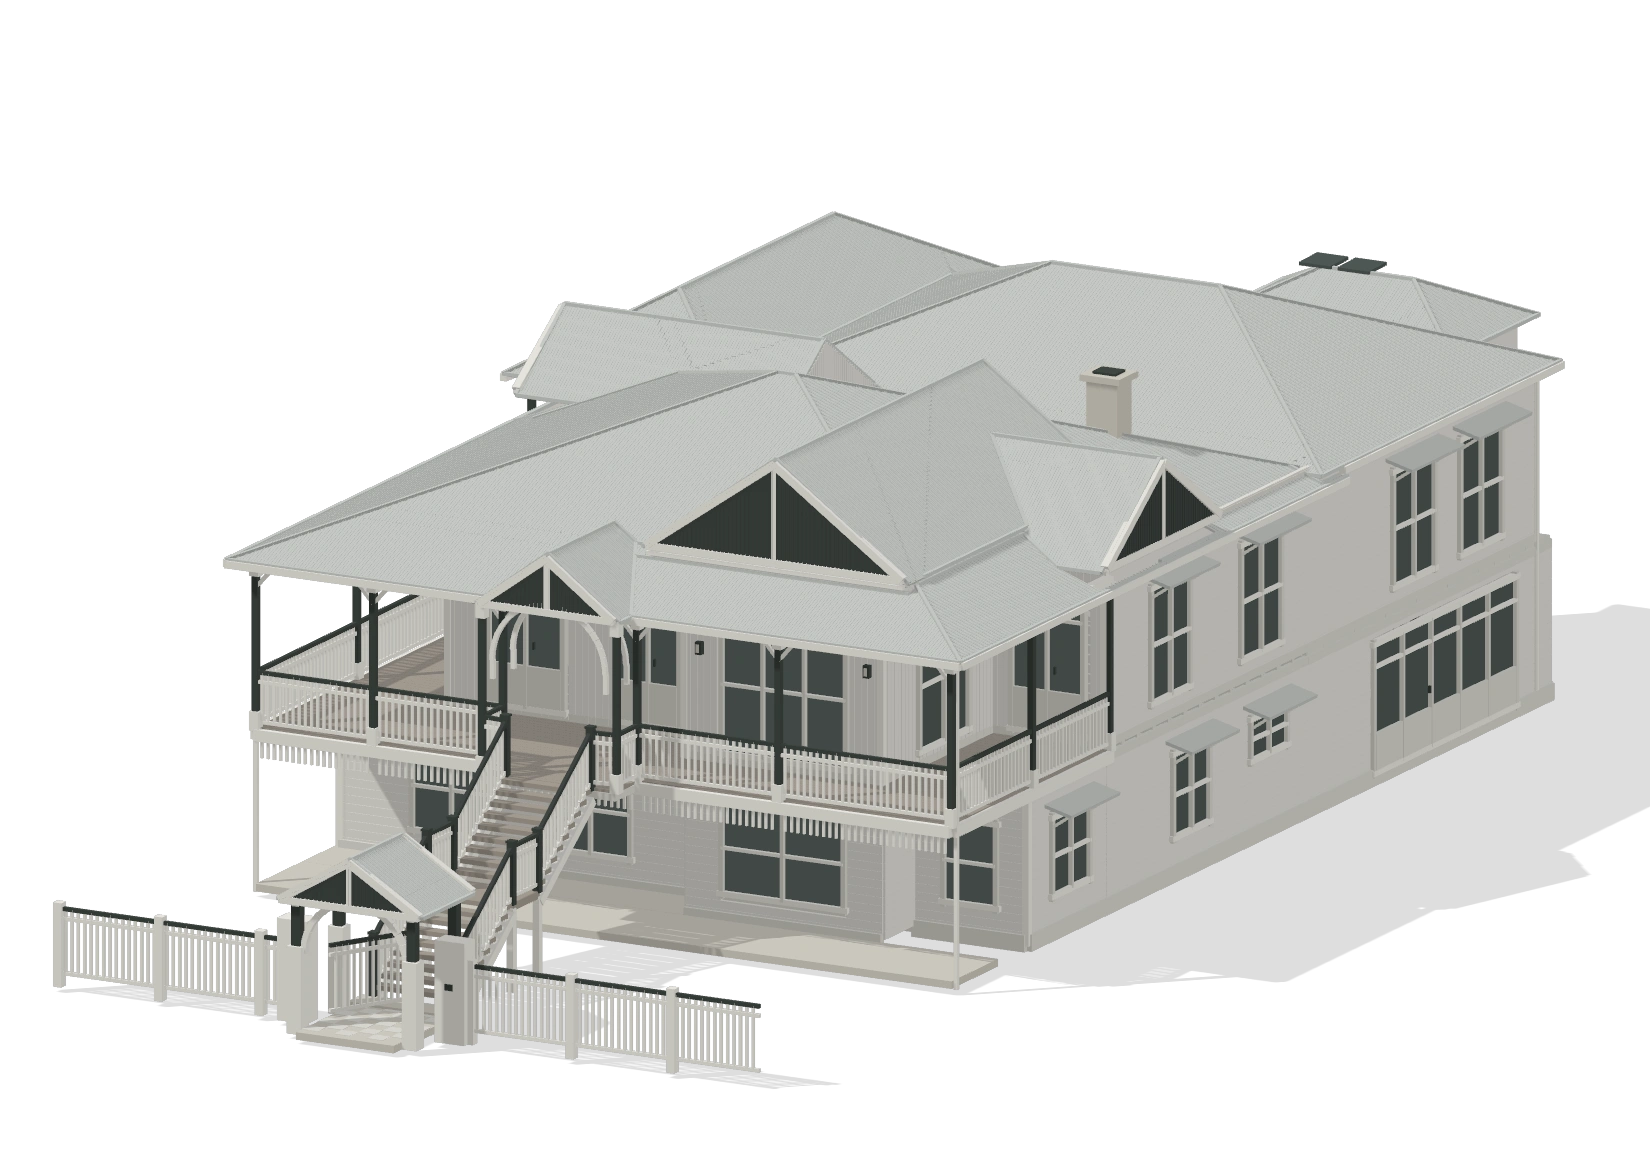
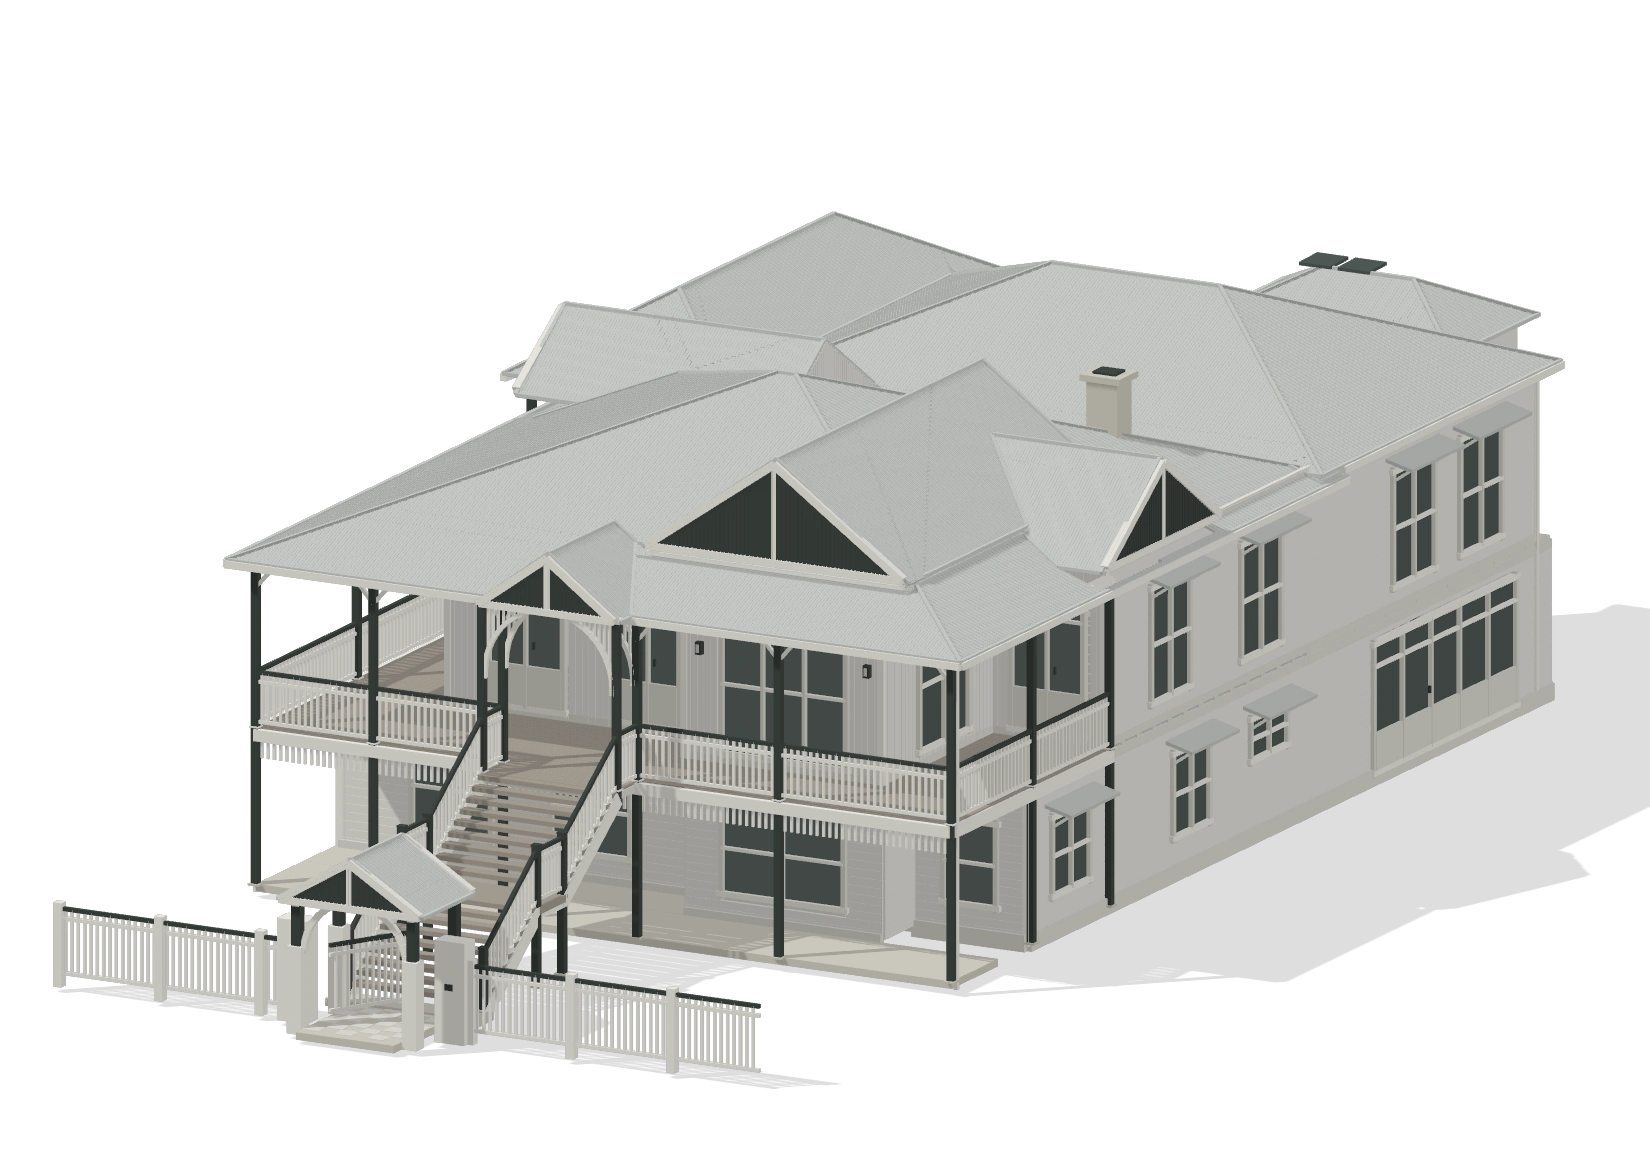
Rebuild Croyde stair joins and continuous verandah supports

diff --git a/src/three/frameMembers.ts b/src/three/frameMembers.ts
@@ -126,10 +126,17 @@ deck(-7.25,-4.9,-3.9,6.9)
 deck(-9,-7.82,-13.9,-3.9);deck(-7.82,-4.9,-13.9,-12.08);deck(-7.82,-4.9,-8.88,-3.9)
 deck(-2.1,0.7,10,10.85)
 slab(-7.25,7.25,8.2,10,0.1);slab(-7.25,0.7,6.9,8.2,0.1);slab(-9,-0.65,-13.9,-3.9,0.1)
-function post(x:number,z:number,top=6.35,bottom=UP) {
-  box([x,(bottom+top)/2,z],[0.12,top-bottom,0.12],'accent',0.33,1)
-  box([x,bottom+0.18,z],[0.19,0.36,0.19],'trim',0.88,3)
-  box([x,top-0.17,z],[0.19,0.29,0.19],'trim',0.88,3)
+function post(x:number,z:number,top=6.35,bottom=UP-0.12) {
+  // The charcoal shaft reaches the deck and beam. Tall white collars used to
+  // hide both ends, making the posts look detached from the balustrade.
+  box([x,(bottom+top)/2,z],[0.14,top-bottom,0.14],'accent',0.33,1)
+  box([x,UP+0.065,z],[0.19,0.025,0.19],'trim',0.88,3,{lines:false})
+  box([x,top-0.025,z],[0.18,0.09,0.18],'trim',0.88,3)
+}
+function verandahSupport(x:number,z:number) {
+  const bottom=0.17,top=UP-0.07
+  box([x,(bottom+top)/2,z],[0.14,top-bottom,0.14],'accent',0.22,1)
+  box([x,bottom,z],[0.22,0.035,0.22],'ground',0.85,3,{lines:false})
 }
 function bracket(x:number,z:number,axis:'x'|'z',dir:number,top=6.34) {
   beam([x,top-0.53,z],axis==='x'?[x+dir*0.42,top-0.06,z]:[x,top-0.06,z+dir*0.42],0.065,'trim',0.91)
@@ -141,20 +148,22 @@ function rail(a:V2,b:V2,base=UP+0.08,height=1.02,frieze=false) {
   for(const y of frieze?[high]:[low,high-0.18])beam([a[0],y,a[1]],[b[0],y,b[1]],0.065,'trim',0.89)
   if(!frieze)beam([a[0],base+height,a[1]],[b[0],base+height,b[1]],0.075,'accent',0.9)
 }
-function newel(x:number,z:number,floor:number) {
-  box([x,floor+NEWEL_HEIGHT/2,z],[0.14,NEWEL_HEIGHT,0.14],'accent',0.91,3)
-  box([x,floor+NEWEL_HEIGHT,z],[0.17,0.045,0.17],'accent',0.92,3)
+function newel(x:number,z:number,floor:number,bottom=floor-0.25) {
+  const top=floor+NEWEL_HEIGHT
+  // A landing post is also its support, not a dark stub on a separate white leg.
+  box([x,(bottom+top)/2,z],[0.14,top-bottom,0.14],'accent',0.87,3)
+  box([x,top,z],[0.16,0.035,0.16],'accent',0.92,3,{lines:false})
 }
 function landingRail(a:V2,b:V2,floor:number) { rail(a,b,floor+0.08,HANDRAIL-0.08) }
 const frontPosts=[-7.25,-4.8,-2.1,0.7,3.65,7.25]
-frontPosts.forEach(x=>{post(x,10);for(const d of [-1,1])if(Math.abs(x+d*0.5)<7.3)bracket(x,10,'x',d)})
+frontPosts.forEach(x=>{post(x,10);verandahSupport(x,10);for(const d of [-1,1])if(Math.abs(x+d*0.5)<7.3)bracket(x,10,'x',d)})
 for(let i=0;i<frontPosts.length-1;i++) {
   // Rails meet the post centreline, rather than stopping short of its face.
   const a=frontPosts[i],b=frontPosts[i+1]
   if(i!==2)rail([a,10],[b,10]) // Real opening at the stair entrance.
   rail([a,10],[b,10],UP-0.52,0.36,true)
 }
-for(const z of [3.9,6.9])post(7.25,z)
+for(const z of [3.9,6.9]){post(7.25,z);verandahSupport(7.25,z)}
 rail([7.25,3.9],[7.25,6.9]);rail([7.25,6.9],[7.25,10])
 const gardenPosts=[-3.9,-0.7,2.5,6.1,10]
 gardenPosts.slice(0,-1).forEach(z=>{post(-7.25,z);bracket(-7.25,z,'z',1);bracket(-7.25,z,'z',-1)})
@@ -170,31 +179,39 @@ for(const [a,b] of [[[-7.25,10],[7.25,10]],[[-7.25,10],[-7.25,-3.9]],[[7.25,10],
   for(const y of [UP-0.08,6.35])beam([a[0],y,a[1]],[b[0],y,b[1]],y<4?0.22:0.18,'trim',0.86)
 }
 // Stair handrails follow each flight, with an actual intermediate landing.
-function stair(x:number,z1:number,z2:number,y1:number,y2:number,width:number,n:number) {
+function stair(x:number,z1:number,z2:number,y1:number,y2:number,width:number,n:number,posts:{start?:boolean;startBottom?:number;endBottom?:number}={}) {
   const dz=(z2-z1)/n,dy=(y2-y1)/n
   for(let i=0;i<n;i++)box([x,y1+dy*i,z1+dz*(i+0.5)],[width,0.09,Math.abs(dz)+0.018],'deck',0.86,3)
   for(const side of [-1,1]) {
     const xx=x+side*(width/2-0.04)
-    beam([xx,y1-0.18,z1],[xx,y2-0.18,z2],0.18,'trim',0.85)
+    // Deep side stringers carry the open treads. A square stick below the
+    // flight left the tread ends and post feet visibly unsupported.
+    const slope=-Math.atan2(y2-y1,Math.abs(z2-z1))
+    box([xx,(y1+y2)/2-0.1,(z1+z2)/2],[0.14,0.3,Math.hypot(z2-z1,y2-y1)],'trim',0.85,3,
+      {rx:slope,ry:z2<z1?Math.PI:0})
     beam([xx,y1+HANDRAIL,z1],[xx,y2+HANDRAIL,z2],0.075,'accent',0.91)
     beam([xx,y1+LOWER_RAIL,z1],[xx,y2+LOWER_RAIL,z2],0.075,'trim',0.91)
     const count=Math.ceil(Math.abs(z2-z1)/0.14)
     for(let j=1;j<count;j++)box([xx,y1+(y2-y1)*j/count+(LOWER_RAIL+HANDRAIL)/2,z1+(z2-z1)*j/count],[0.045,HANDRAIL-LOWER_RAIL,0.045],'trim',0.91,3)
-    for(const [z,y] of [[z1,y1],[z2,y2]])newel(xx,z,y)
+    if(posts.start!==false)newel(xx,z1,y1,posts.startBottom)
+    newel(xx,z2,y2,posts.endBottom)
   }
 }
 const ENTRY=-0.7
-stair(ENTRY,10.85,12.9,UP,1.65,1.85,9)
-slab(ENTRY-0.93,ENTRY+0.93,12.9,13.9,1.61,'deck',0.86)
+// Use the entrance column lines for both flights. The previous narrower
+// stair created four short dog-leg rails and extra posts beside the entrance.
+const ENTRY_STAIR_WIDTH=2.88
+stair(ENTRY,10.8,12.9,UP,1.65,ENTRY_STAIR_WIDTH,9,{start:false,endBottom:0.17})
+slab(ENTRY-1.48,ENTRY+1.48,12.9,13.9,1.61,'deck',0.86)
 for(const side of [-1,1]) {
-  const x=ENTRY+side*(1.85/2-0.04),porticoX=ENTRY+side*1.4
-  landingRail([porticoX,10],[porticoX,10.8],UP)
-  landingRail([porticoX,10.8],[x,10.85],UP)
+  const x=ENTRY+side*1.4
+  landingRail([x,10],[x,10.8],UP)
   landingRail([x,12.9],[x,13.9],1.65)
-  for(const z of [12.9,13.9])box([x,0.79,z],[0.13,1.58,0.13],'trim',0.84,3)
+  box([x,1.56,13.4],[0.14,0.23,1.14],'trim',0.86,3)
+  for(const z of [12.9,13.9])box([x,0.17,z],[0.22,0.035,0.22],'ground',0.88,3,{lines:false})
 }
-stair(ENTRY,13.9,15.95,1.65,0.18,1.85,9)
-slab(ENTRY-1.13,ENTRY+1.13,15.93,16.5,0.1,'ground',0.9)
+stair(ENTRY,13.9,15.95,1.65,0.18,ENTRY_STAIR_WIDTH,9,{startBottom:0.17,endBottom:0.1})
+slab(ENTRY-1.6,ENTRY+1.6,15.93,16.5,0.1,'ground',0.9)
 stair(-5.65,-12,-9.9,UP,1.6,1.35,9);slab(-7.74,-4.94,-9.9,-8.95,1.55,'deck',0.86)
 stair(-7.05,-9.9,-12,1.6,0.18,1.35,9)
 // Continuous guard around the rear landing and upstairs stairwell. The two
@@ -340,12 +357,18 @@ for(const z of [10,10.8]) {
   // The rear pair already belongs to frontPosts. Duplicating it 5 cm forward
   // made the entry posts overlap and flicker against their white capitals.
   if(z===10.8)for(const x of [-2.1,0.7])post(x,z,6.4)
-  const r=1.18,cy=5.32
+  // Spring the arch from the inner faces of the columns. The former narrow
+  // horseshoe hung clear of both posts with no timber tying it to the beam.
+  const r=1.33,cy=5.05,head=6.35
   for(let i=0;i<22;i++) {
     const a=i*Math.PI/22,b=(i+1)*Math.PI/22
     beam([ENTRY+r*Math.cos(a),cy+r*Math.sin(a),z+0.025],[ENTRY+r*Math.cos(b),cy+r*Math.sin(b),z+0.025],0.085,'trim',0.93)
   }
-  for(const x of [ENTRY-r,ENTRY+r])beam([x,4.95,z],[x,cy,z],0.085,'trim',0.93)
+  for(const x of [ENTRY-r,ENTRY+r])beam([x,4.95,z+0.025],[x,cy,z+0.025],0.085,'trim',0.93)
+  for(let u=-r+0.07;u<r;u+=0.105) {
+    const bottom=cy+Math.sqrt(r*r-u*u)
+    if(bottom<head)box([ENTRY+u,(bottom+head)/2,z+0.025],[0.035,head-bottom,0.055],'trim',0.93,3,{lines:false})
+  }
 }
 for(let y=6.62;y<7.23;y+=0.15)box([2.875,y,8.61],[5.1,0.143,0.08],'clad',0.85,3)
 for(const y of [6.66,7.12])box([2.875,y,8.69],[5.35,0.08,0.1],'trim',0.9,3)

diff --git a/README.md b/README.md
@@ -1455,8 +1455,12 @@ renovation model on Approach is unchanged.
 
 The 5 November railing correction removes overlapping entry posts, connects
 verandah rails to post centrelines and uses a shared handrail height across the
-stair flights and landings. Short guarded returns connect the projecting entry
-porch to the front stair; the rear stairwell has supported corners and a complete
+stair flights and landings. The front stair now shares the entry column lines,
+with continuous landing posts and deeper stringers carrying the open treads.
+Verandah shafts reach the deck without oversized white collars; aligned ground
+supports continue beneath the front and short return, as in the exterior photos.
+The entrance arch meets its columns and has fretwork joining it to the header.
+The rear stairwell has supported corners and a complete
 landing guard. The charcoal trim remains part of the photographed house's
 palette. Both fallback renders are regenerated after these geometry corrections.
 
